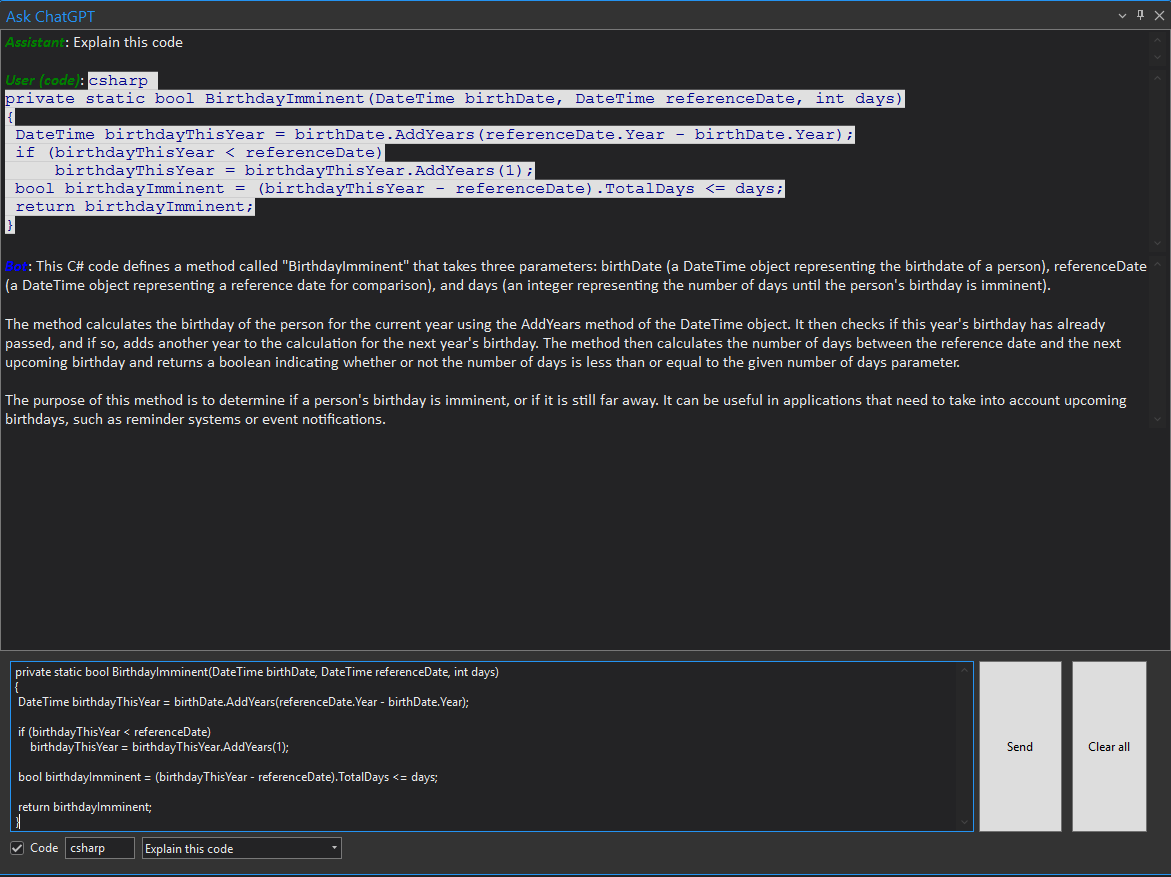
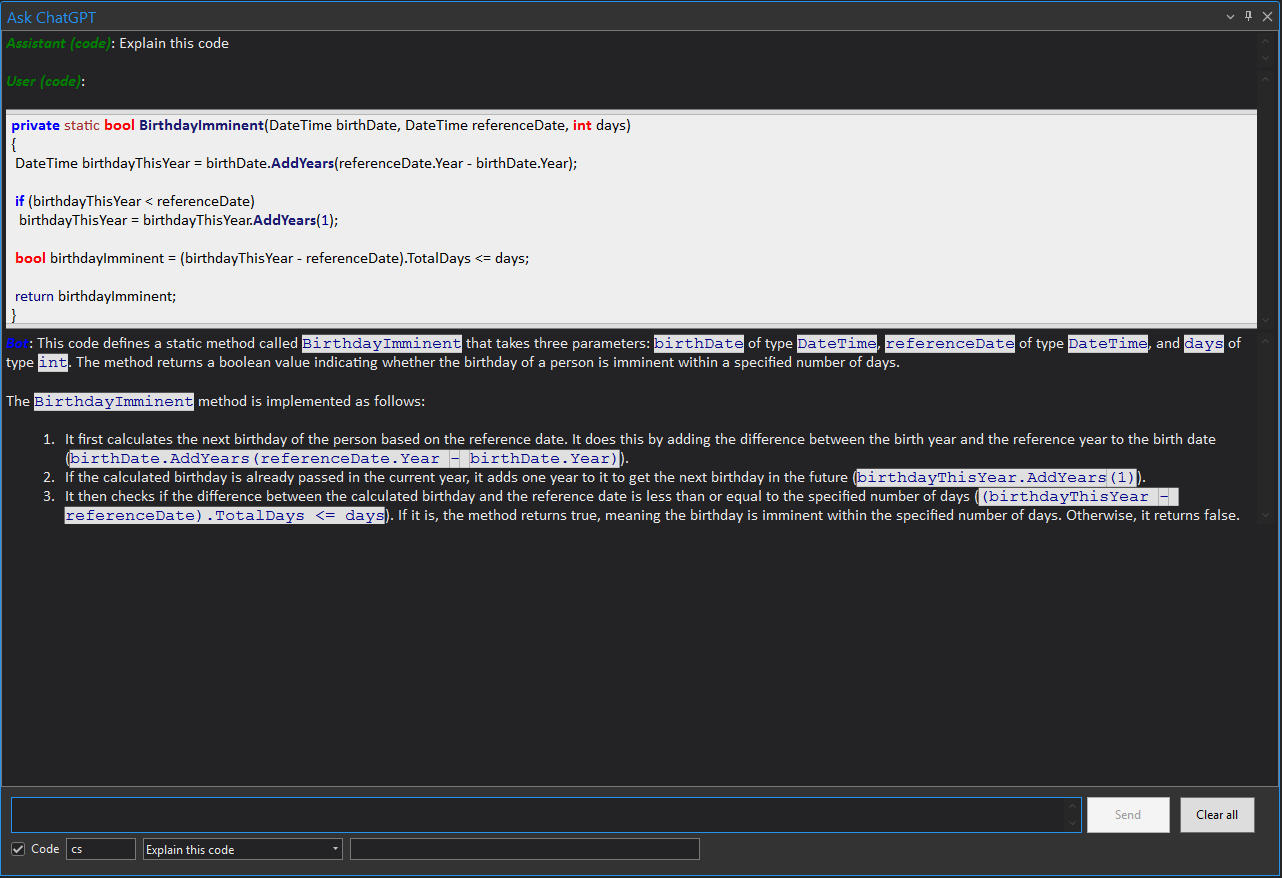
Added questionby user about code and fixed render c# code

diff --git a/Dockpane/ChatGPTDockpane.xaml b/Dockpane/ChatGPTDockpane.xaml
@@ -56,7 +56,7 @@
                     <RowDefinition Height="*" />
 
                 </Grid.RowDefinitions>
-                <TextBox Grid.Row="0" PreviewKeyDown="TextBoxInput_PreviewKeyDown"  TextWrapping="Wrap"
+                <TextBox Grid.Row="0" TextWrapping="Wrap"
                      AcceptsReturn="True"
                      VerticalScrollBarVisibility="Visible" 
                      BorderBrush="{DynamicResource Esri_Blue}"
@@ -73,12 +73,12 @@
                 Margin="98,0,14,0"
                 Command="{Binding ClearAllCommand}"
                 Content="Clear all" />
-                <StackPanel Grid.Row="1" Grid.Column="0" Orientation="Horizontal" Margin="0,5">
+                <StackPanel Grid.Row="1" Grid.ColumnSpan="2" Orientation="Horizontal" Margin="0,5">
                     <CheckBox x:Name="chkCode" VerticalAlignment="Center" Margin="0,0,7,0" IsChecked="{Binding CodeChecked}">Code</CheckBox>
-                    <TextBox  x:Name="cmbLanguage"  Width="70" Text="{Binding InputCodeLanguage}" ToolTip="Language" Margin="0,0,7,0"/>
+                    <TextBox  x:Name="txtLanguage"  Width="70" Text="{Binding InputCodeLanguage}" ToolTip="Language" Margin="0,0,7,0"/>
 
-                    <ComboBox x:Name="cmbQuestion" Width="200" ItemsSource="{Binding Questions}" SelectedValue="{Binding SelectedQuestion}" IsEditable="False"/>
-
+                    <ComboBox x:Name="cmbQuestion" Width="200" ItemsSource="{Binding Questions}" SelectedValue="{Binding SelectedQuestion}" SelectionChanged="cmbQuestion_SelectionChanged" IsEditable="False"/>
+                    <TextBox x:Name="txtQuestion"  Width="350" Text="{Binding QuestionUser, Mode=TwoWay, UpdateSourceTrigger=PropertyChanged}" ToolTip="Question user" Margin="7,0,0,0"></TextBox>
 
                 </StackPanel>
             </Grid>

diff --git a/Dockpane/ChatGPTDockpaneViewModel.cs b/Dockpane/ChatGPTDockpaneViewModel.cs
@@ -45,6 +45,19 @@ namespace PAMChatGPT
             }
         }
 
+        private string questionUser;
+        public string QuestionUser
+        {
+            get { return questionUser; }
+            set
+            {
+                SetProperty(ref questionUser, value, () => QuestionUser);
+
+            }
+        }
+
+
+
         private ObservableCollection<string> questions;
         public ObservableCollection<string> Questions
         {
@@ -95,16 +108,7 @@ namespace PAMChatGPT
             {               
                 if (this.CodeChecked)
                 {
-                    string s = InputText;
-                    string l = this.InputCodeLanguage;
-                    if (!string.IsNullOrWhiteSpace(l))
-                    {
-                        l = $"{l} ";
-                    }
-
-                    s = $"```{l}\r\n{Regex.Replace(InputText, @"^(?:[\t ]*(?:\r?\n|\r))+", "", RegexOptions.Multiline)}\r\n```";
-
-                    await ModuleChatGPT.Bot.SendActivityAsync(s, MessageFrom.UserCode, SelectedQuestion);
+                    await ModuleChatGPT.Bot.SendActivityAsync($"```{this.InputCodeLanguage}\r\n{InputText}\r\n```", MessageFrom.UserCode, SelectedQuestion, QuestionUser);
                 }
                 else
                 {
@@ -146,7 +150,12 @@ namespace PAMChatGPT
                 "Find & fix bugs",
                 "Is threadsafe",
                 "Is this well-written",
-                "Make this run faster"
+                "Make this run faster",
+                "Translate the following code to ...",
+                "Write a .NET regular expression to ...",
+                "Rewrite using ...",
+                "Rewrite this code to use the ... library instead of the ... library.",
+                "General question about coding ..."
             };
 
             SelectedQuestion = Questions[3];

diff --git a/Bot.cs b/Bot.cs
@@ -1,4 +1,5 @@
 using ArcGIS.Desktop.Framework.Dialogs;
+using ArcGIS.Desktop.Internal.Catalog.PropertyPages.NetworkDataset;
 using OpenAI_API;
 using OpenAI_API.Chat;
 using PAMChatGPT.Enums;
@@ -60,17 +61,26 @@ namespace PAMChatGPT
         }
 
 
-        public async Task SendActivityAsync(string text, MessageFrom messageFrom = MessageFrom.User, string assistantText = null)
+        public async Task SendActivityAsync(string text, MessageFrom messageFrom = MessageFrom.User, string assistantText = null, string userText = null)
         {
             try
             {
                 CreateConversationIfNotExistAsync();
-
-                if (!string.IsNullOrWhiteSpace(assistantText))
+                if (!string.IsNullOrWhiteSpace(userText))
                 {
                     Messages.Add(new Message
                     {
-                        MessageFrom = MessageFrom.Assistant,
+                        MessageFrom = MessageFrom.UserCode,
+                        Text = userText,
+                    });
+
+                    chat.AppendUserInput(userText);
+                }
+                else if (!string.IsNullOrWhiteSpace(assistantText))
+                {
+                    Messages.Add(new Message
+                    {
+                        MessageFrom = MessageFrom.AssistantCode,
                         Text = assistantText,
                     });
 

diff --git a/Message.cs b/Message.cs
@@ -27,13 +27,13 @@ namespace PAMChatGPT
                 {
                     c = "blue";
                 }
-                else if ((MessageFrom == MessageFrom.User) || (MessageFrom == MessageFrom.UserCode) || (MessageFrom == MessageFrom.Assistant) || (MessageFrom == MessageFrom.AssistantCode))
+                else if ((MessageFrom == MessageFrom.User) || (MessageFrom == MessageFrom.UserCode) || (MessageFrom == MessageFrom.AssistantCode))
                 {
                     c = "green";
                 }
                 
                 
-                return $"%{{color:{c}}}***{MessageFrom.GetDescription<MessageFrom>()}***%: {Text}"; 
+                return $"%{{color:{c}}}***{MessageFrom.GetDescription<MessageFrom>()}***%:\r\n{Text}"; 
             
             }
                     
@@ -55,8 +55,6 @@ namespace PAMChatGPT
         Bot,
         [Description("System")]
         System,
-        [Description("Assistant")]
-        Assistant,
         [Description("User (code)")]
         UserCode,
         [Description("Assistant (code)")]

diff --git a/Dockpane/ChatGPTDockpane.xaml.cs b/Dockpane/ChatGPTDockpane.xaml.cs
@@ -1,5 +1,4 @@
 using System.Windows.Controls;
-using System.Windows.Input;
 
 namespace PAMChatGPT
 {
@@ -15,23 +14,19 @@ namespace PAMChatGPT
         }
 
         private ChatGPTDockpaneViewModel ViewModel => (ChatGPTDockpaneViewModel)DataContext;
-        
 
-        private void TextBoxInput_PreviewKeyDown(object sender, KeyEventArgs e)
+        private void cmbQuestion_SelectionChanged(object sender, SelectionChangedEventArgs e)
         {
-            if (e.Key == Key.Enter)
+            string text = e.AddedItems[0] as string;
+            if (text.Contains("..."))
             {
-                if (ViewModel.SendMessageCommand.CanExecute(null))
-                {
-                    ViewModel.SendMessageCommand.Execute(null);
-                }
+                txtQuestion.Text = text;
+            }
+            else
+            {
+                txtQuestion.Text = null;
+
             }
         }
-
-        //private void Window_Closed(object sender, EventArgs e)
-        //{
-        //    ViewModel.Closed();
-        //}
-
     }
 }

diff --git a/README.md b/README.md
@@ -24,3 +24,5 @@ Open AddIn button and use it:
 ![Addin ArcGIS Pro ChatGPT](/Help/ShowChatGPT.png)
 
 ![Addin ArcGIS Pro ChatGPT](/Help/ShowChatGPTCode.png)
+
+![Addin ArcGIS Pro ChatGPT](/Help/ShowChatGPTCodeUser.png)
